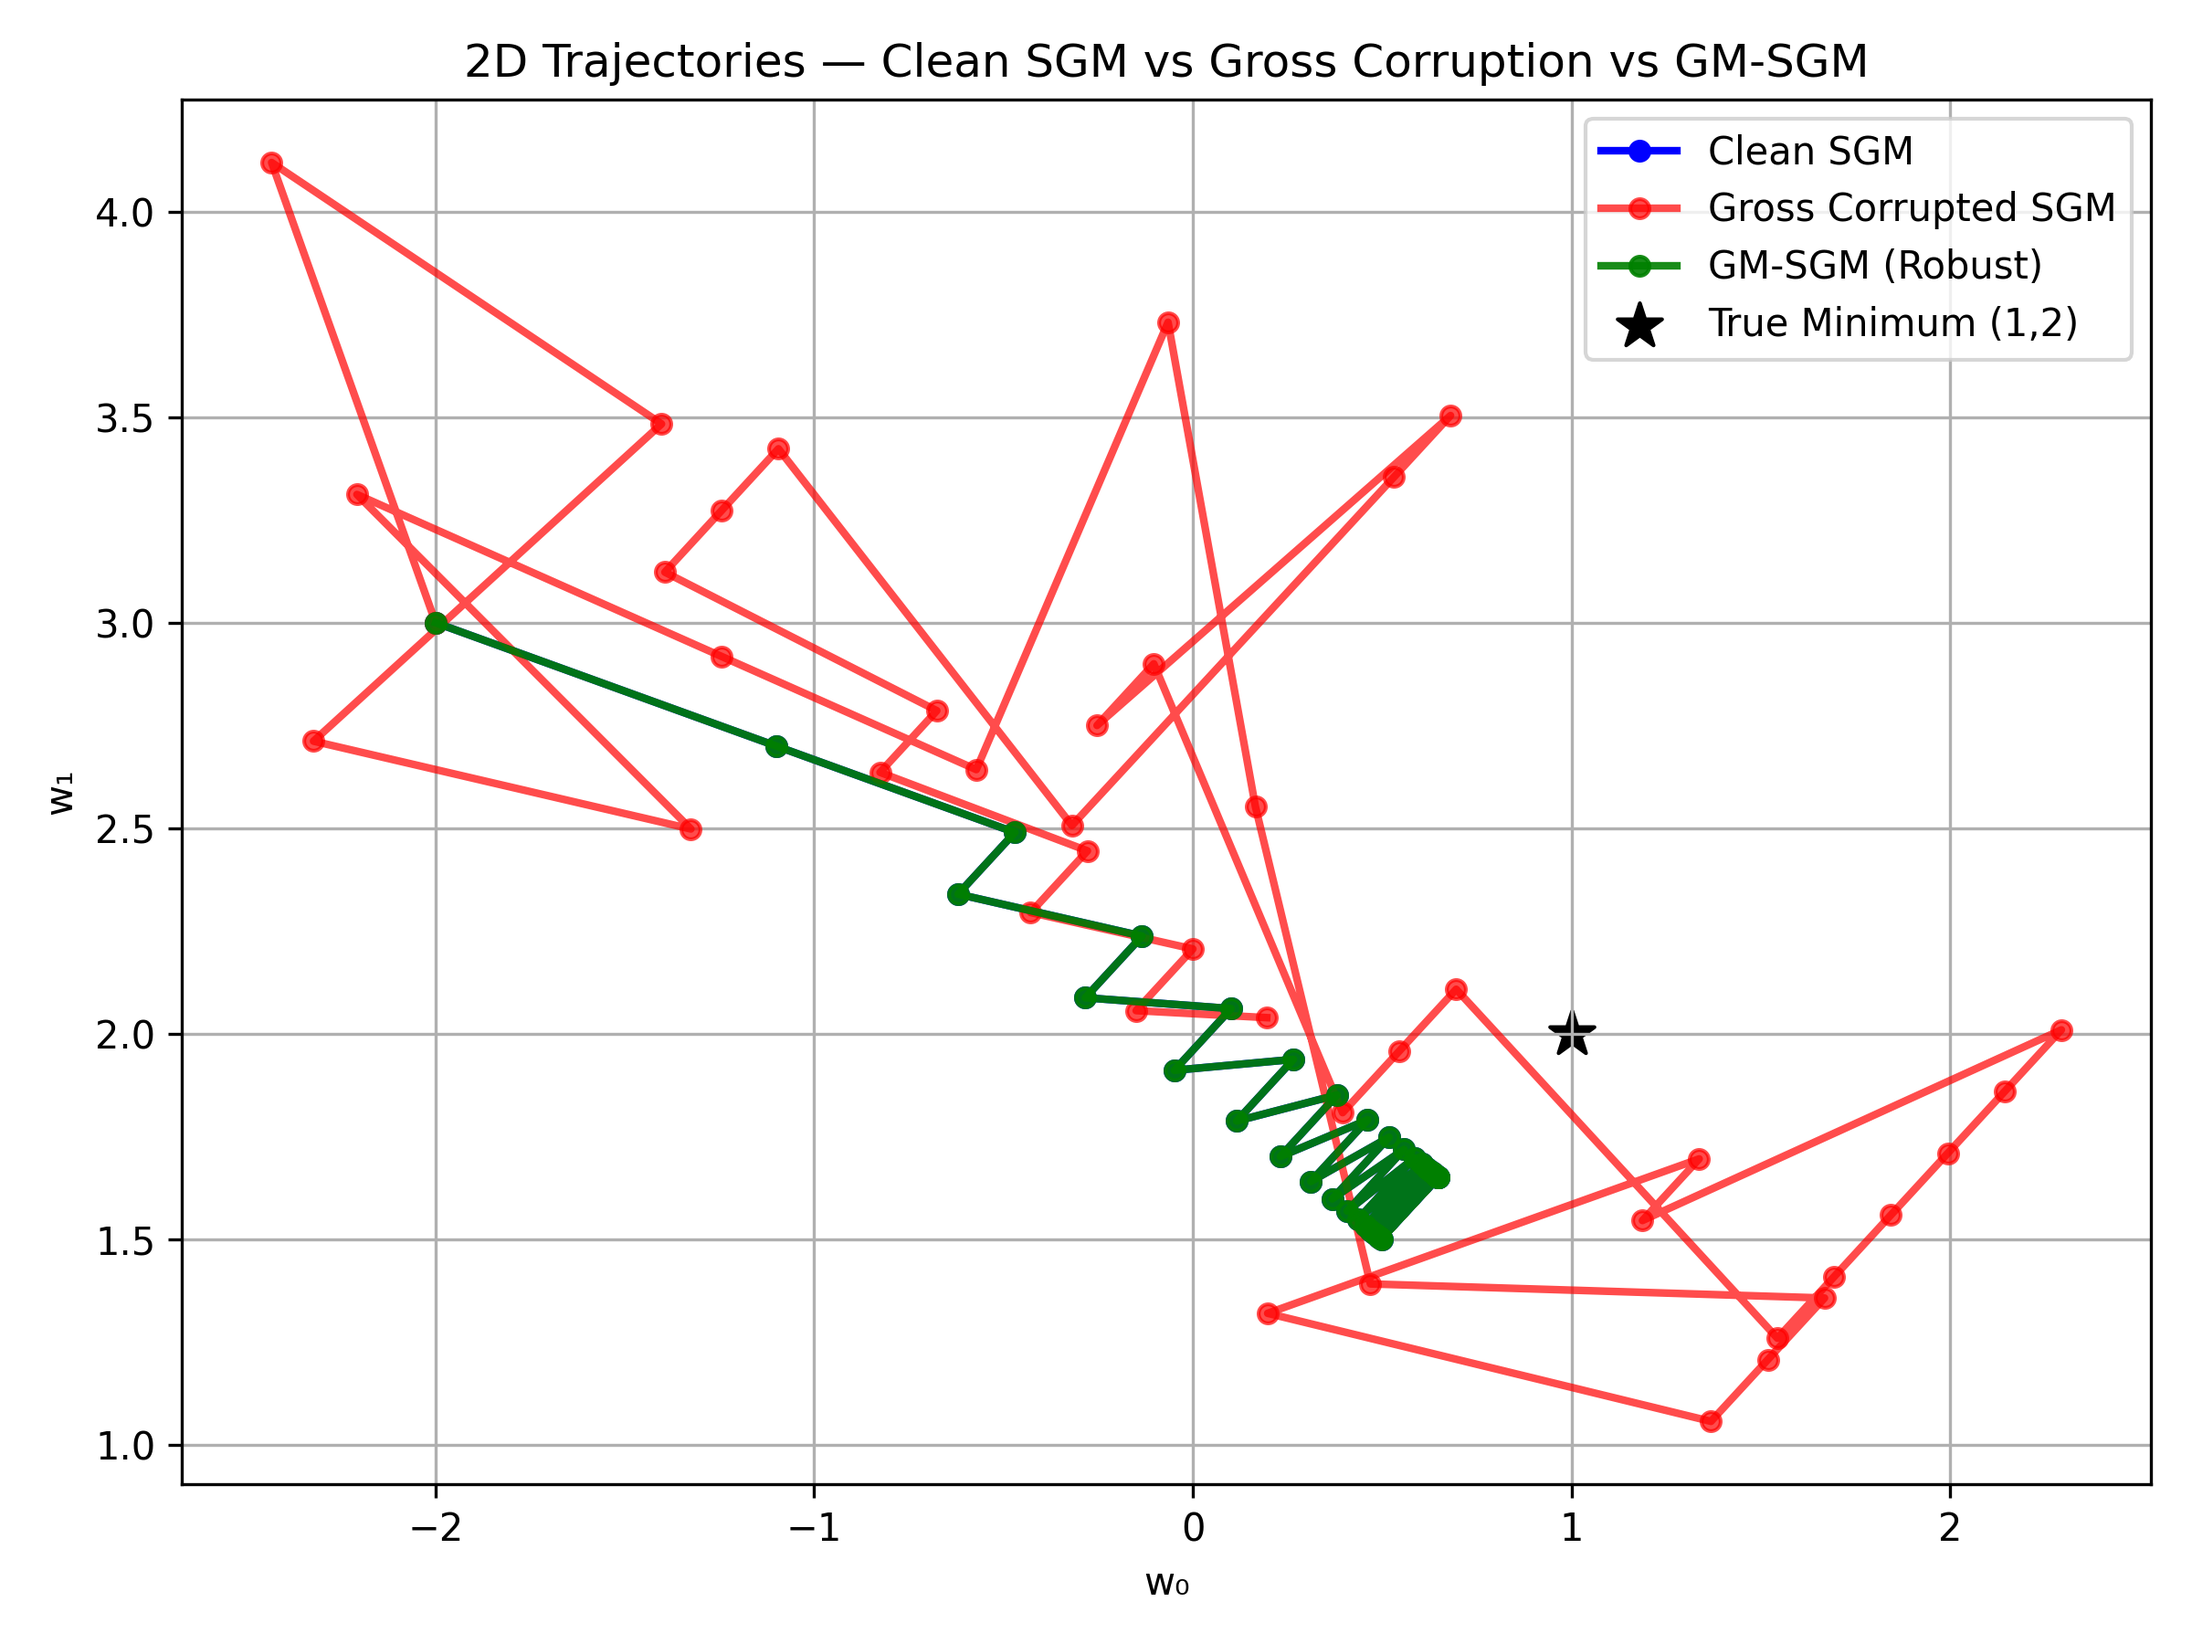
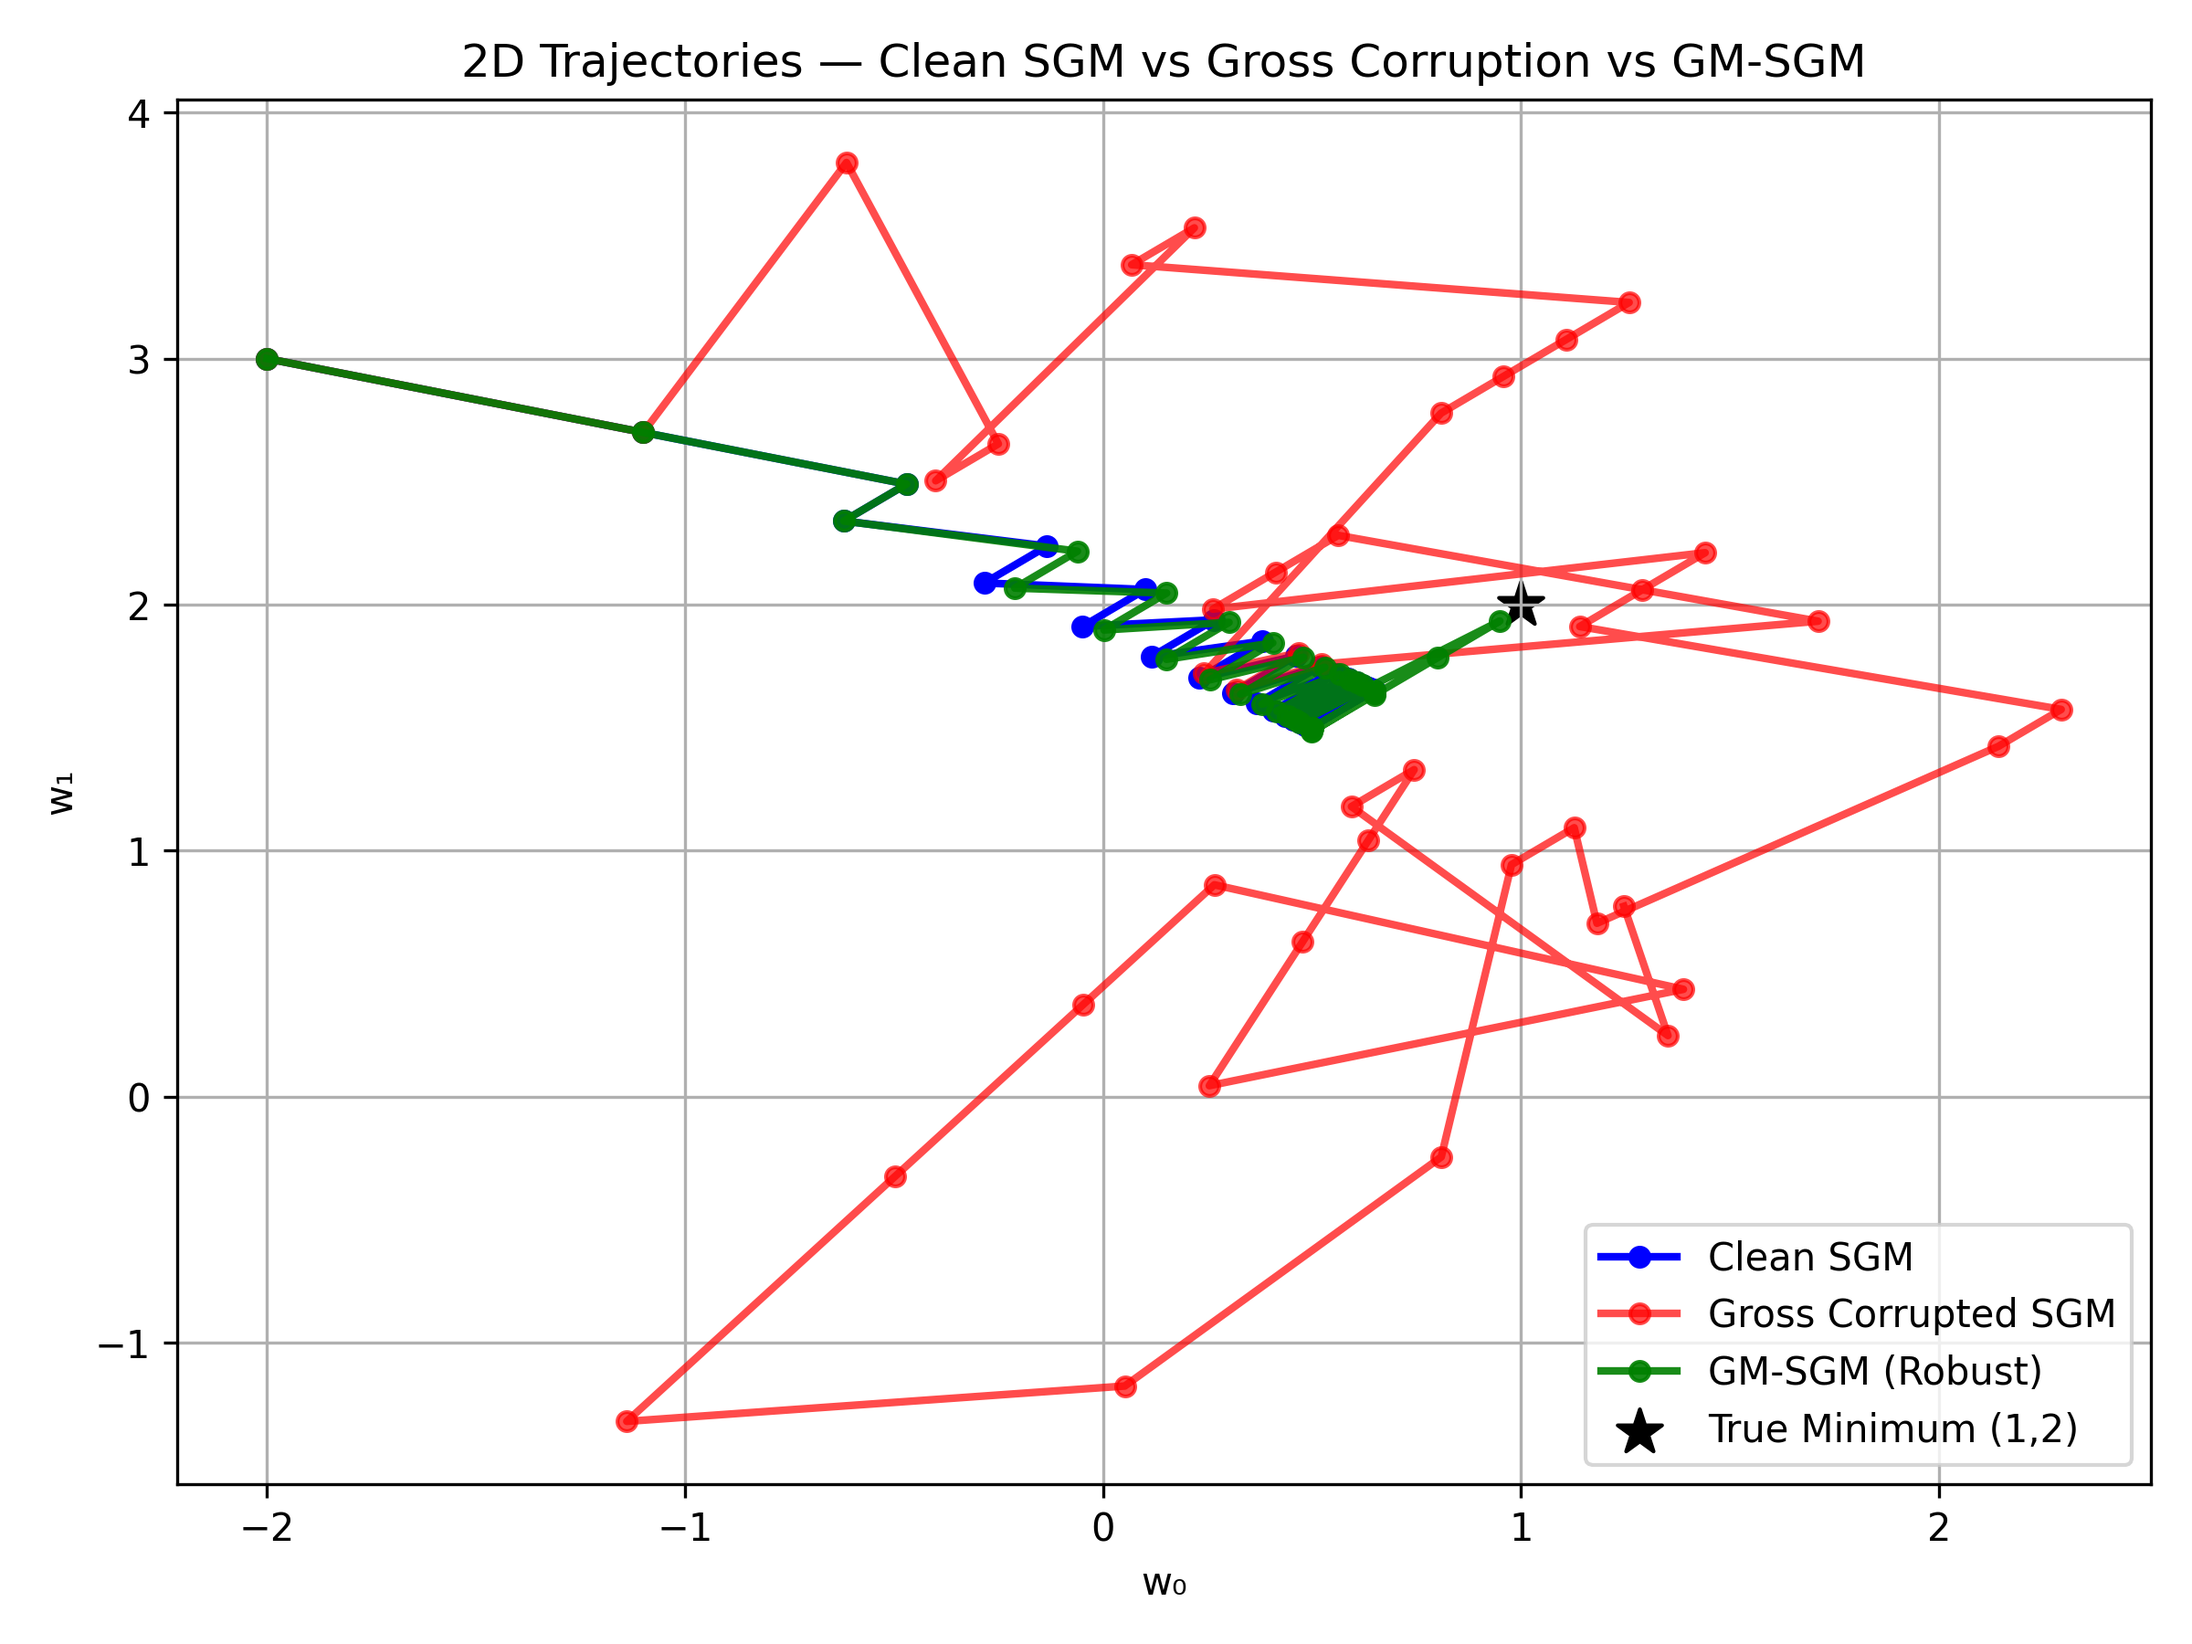
pdf

diff --git a/GM-SGM_vs_SGM/gm_vs_sgm.py b/GM-SGM_vs_SGM/gm_vs_sgm.py
@@ -5,9 +5,9 @@ import pandas as pd
 from pathlib import Path
 from mpl_toolkits.mplot3d import Axes3D
 
-# ====================================================
+
 # 1. Setup: Objective and Constraint
-# ====================================================
+
 
 def f(w0, w1):
     """Convex quadratic objective."""
@@ -22,9 +22,9 @@ def g_value(w):
 def grad_g():
     return torch.tensor([1.0, 1.0])
 
-# ====================================================
+
 # 2. Helper: Geometric Median (Weiszfeld)
-# ====================================================
+
 
 def geometric_median(vectors, eps=1e-6, max_iter=100):
     """Weiszfeld's algorithm for geometric median."""
@@ -39,11 +39,11 @@ def geometric_median(vectors, eps=1e-6, max_iter=100):
         guess = new_guess
     return guess
 
-# ====================================================
-# 3. Gross Corruption Model
-# ====================================================
 
-def gross_corruption(grad, psi=0.4, magnitude=8.0):
+# 3. Gross Corruption Model
+
+
+def gross_corruption(grad, psi=0.9, magnitude=8.0):
     """
     Apply the Gross Corruption Model (GCM).
     With probability psi, replace the true gradient with an arbitrary (corrupted) vector.
@@ -55,9 +55,9 @@ def gross_corruption(grad, psi=0.4, magnitude=8.0):
         grad = magnitude * corrupt_direction
     return grad
 
-# ====================================================
+
 # 4. Single SGM step
-# ====================================================
+
 
 def sgm_step(w, eta=0.1, eps=0.0, corruption=False, psi=0.4, magnitude=8.0):
     """Single SGM step with optional Gross Corruption."""
@@ -69,9 +69,9 @@ def sgm_step(w, eta=0.1, eps=0.0, corruption=False, psi=0.4, magnitude=8.0):
 
     return w - eta * grad
 
-# ====================================================
+
 # 5. Single GM-SGM step
-# ====================================================
+
 
 def gm_sgm_step(w, eta=0.1, eps=0.0, corruption=True, batch_size=10, psi=0.4, magnitude=8.0):
     """Single GM-SGM step with geometric median aggregation under Gross Corruption."""
@@ -85,9 +85,8 @@ def gm_sgm_step(w, eta=0.1, eps=0.0, corruption=True, batch_size=10, psi=0.4, ma
     gm_grad = geometric_median(grads)
     return w - eta * gm_grad
 
-# ====================================================
 # 6. Run a method
-# ====================================================
+
 
 def run_method(method="sgm", clean=True, steps=40, eta=0.15, psi=0.4, magnitude=8.0):
     """Run clean or corrupted method with chosen aggregation."""
@@ -104,9 +103,9 @@ def run_method(method="sgm", clean=True, steps=40, eta=0.15, psi=0.4, magnitude=
         gvals.append(g_value(w))
     return torch.stack(traj), np.array(losses), np.array(gvals)
 
-# ====================================================
+
 # 7. Run all three cases
-# ====================================================
+
 
 psi = 0.4          # fraction of corrupted gradients
 magnitude = 8.0    # corruption strength
@@ -115,9 +114,9 @@ traj_clean, loss_clean, g_clean = run_method("sgm", clean=True)
 traj_corrupted, loss_corrupted, g_corrupted = run_method("sgm", clean=False, psi=psi, magnitude=magnitude)
 traj_gm, loss_gm, g_gm = run_method("gm-sgm", clean=False, psi=psi, magnitude=magnitude)
 
-# ====================================================
+
 # 8. Create folder
-# ====================================================
+
 
 Path("results").mkdir(exist_ok=True)
 
